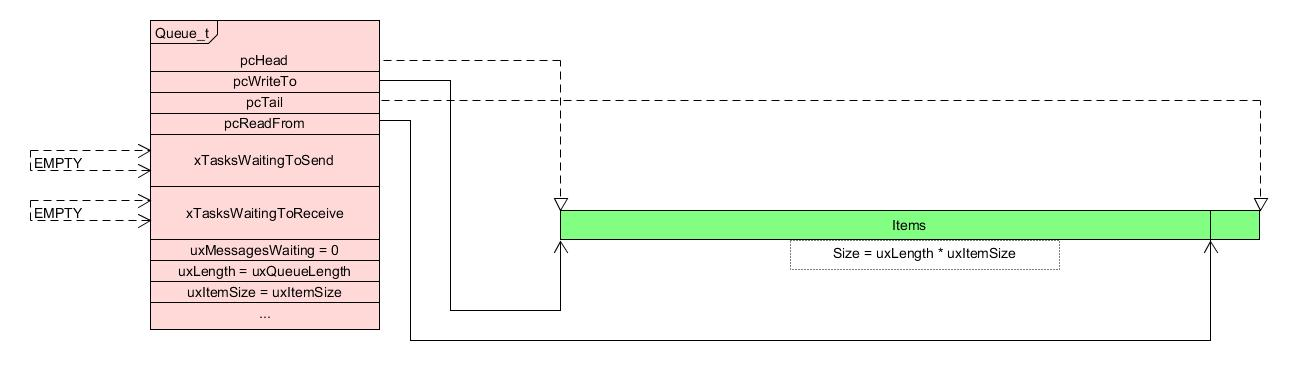
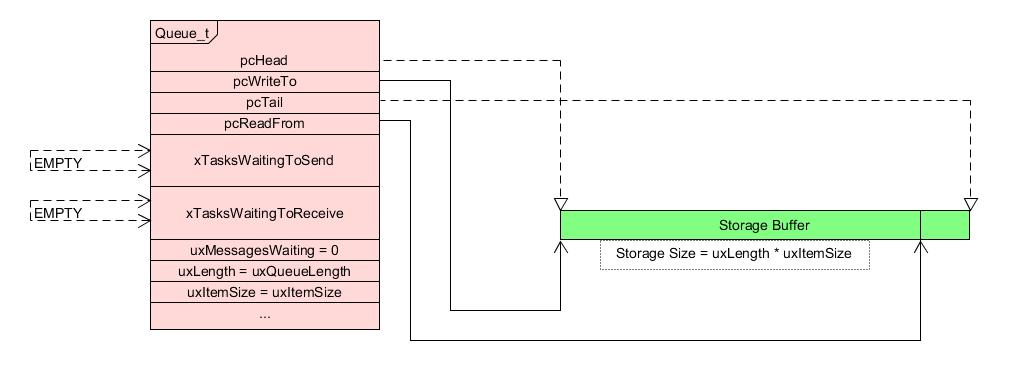
Update itc_queue.md

diff --git a/FreeRTOS/Markdown/itc_queue.md b/FreeRTOS/Markdown/itc_queue.md
@@ -7,7 +7,7 @@
 | xQueueCreate | xQueueGenericCreate |
 | xQueueCreateStatic | xQueueGenericCreateStatic |
 
-`xQueueGenericCreate` 与 `xQueueGenericCreateStatic` 的区别在于内存是否为动态分配，因此以 `xQueueGenericCreate` 为例:
+`xQueueGenericCreate` 与 `xQueueGenericCreateStatic` 的区别在于所需的内存是否为动态分配，因此我们以 `xQueueGenericCreate` 为例进行分析:
 
 ### xQueueGenericCreate
 
@@ -20,59 +20,104 @@ QueueHandle_t xQueueGenericCreate( const UBaseType_t uxQueueLength,
  - **uxQueueLength**： 队列可以包含的最大项数。
  - **uxItemSize**： 队列中每一项所需的字节数。
  - **ucQueueType**： 队列类型，对于 `Queue` 该参数为 **queueQUEUE_TYPE_BASE**。
+ - **Return Value**： 返回新创建的队列的句柄。
+
+使用 `xQueueGenericCreate` 创建队列的流程如下图：
 
 ![xQueueCreate Sequence][1]
 
-![xQueueCreate Structure][2]
-
- 1. 需要注意 xQueueGenericReset 中，对阻塞任务的处理策略。
+ 1. 需要注意 `xQueueGenericReset` 中，对阻塞任务的处理策略。
 
     - 如果有任务处于等待读取的状态，则该阻塞任务将继续阻塞。
-    - 如果有任务处于等待写入的状态，则取消**一个任务**的阻塞状态。
+    - 如果有任务处于等待写入的状态，则取消 **优先级最高的任务** 的阻塞状态。
 
     > If there are tasks blocked waiting to read from the queue, then the tasks will remain blocked as after this function exits the queue will still be empty.  If there are tasks blocked waiting to write to the queue, then one should be unblocked as after this function exits it will be possible to write to it.
 
-## 发送消息
+使用 `xQueueGenericCreate` 创建队列的数据结构如下图：
 
-| API | 入队方式 | 实际调用函数 |
+![xQueueCreate Structure][2]
+
+## 入队
+
+队列的入队方式如下表：
+
+ - 按照运行场景可分为两个版本：
+    - 可以在中断服务例程中使用
+    - 不可在中断服务例程中使用
+
+ - 按照插入位置可分为三种方式：
+    - 从队列首部入队
+    - 从队列尾部入队
+    - 从队列尾部覆盖式入队
+
+| API | 实际调用函数 | 入队方式 | 备注 |
+| :--- | :--- | :--- | :--- |
+| xQueueSendToFront        | xQueueGenericSend | 从队列首部入队 |  |
+| xQueueSendToBack         | xQueueGenericSend | 从队列尾部入队 |  |
+| xQueueOverwrite          | xQueueGenericSend | 从队列尾部覆盖式入队 | 只用于长度为1的队列 |
+| xQueueSend               | xQueueGenericSend | 从队列尾部入队 | 不推荐使用，该接口存在是为了保持版本的向后兼容性 |
+| xQueueSendToFrontFromISR | xQueueGenericSendFromISR | 从队列首部入队 |  |
+| xQueueSendToBackFromISR  | xQueueGenericSendFromISR | 从队列尾部入队 |  |
+| xQueueOverwriteFromISR   | xQueueGenericSendFromISR | 从队列尾部覆盖式入队 | 只用于长度为1的队列 |
+| xQueueSendFromISR        | xQueueGenericSendFromISR | 从队列尾部入队 | 不推荐使用，该接口存在是为了保持版本的向后兼容性 |
+
+### xQueueGenericSend
+
+``` C
+BaseType_t xQueueGenericSend( QueueHandle_t xQueue,
+        const void * const pvItemToQueue,
+        TickType_t xTicksToWait,
+        const BaseType_t xCopyPosition )
+```
+
+ - **xQueue**： 队列的句柄。
+ - **pvItemToQueue**： 需要入队的Item。
+ - **xTicksToWait**： 入队任务被阻塞的最大时间，如果设置为0则不被阻塞。
+ - **xCopyPosition**：设置入队方式，可以为 **queueSEND_TO_BACK**，**queueSEND_TO_FRONT**，**queueOVERWRITE**。
+ - **Return Value**： 入队成功或队列满。
+
+使用 `xQueueGenericSend` 入队的流程如下图：
+
+![xQueueGenericSend Sequence][3]
+
+ 1. 需要注意
+
+使用 `xQueueGenericSend` 入队后队列的数据结构如下图：
+
+![xQueueGenericSend Structure][4]
+
+### xQueueGenericSendFromISR
+
+``` C
+BaseType_t xQueueGenericSendFromISR( QueueHandle_t xQueue,
+        const void * const pvItemToQueue,
+        BaseType_t * const pxHigherPriorityTaskWoken,
+        const BaseType_t xCopyPosition )
+```
+
+ - **xQueue**： 队列的句柄。
+ - **pvItemToQueue**： 需要入队的Item。
+ - **pxHigherPriorityTaskWoken**： 当该值返回 **True** 时，表明有更高优先级的任务被解除阻塞，需要在退出中断前发起一次上下文切换。
+ - **xCopyPosition**：设置入队方式，可以为 **queueSEND_TO_BACK**，**queueSEND_TO_FRONT**，**queueOVERWRITE**。
+ - **Return Value**： 入队成功或队列满。
+
+使用 `xQueueGenericSendFromISR` 入队的流程如下图：
+
+![xQueueGenericSendFromISR Sequence][5]
+
+ 1. 需要注意
+
+使用 `xQueueGenericSendFromISR` 入队后队列的数据结构如下图：
+
+![xQueueGenericSendFromISR Structure][6]
+
+## 出队
+
+| API | 实际调用函数 | 入队方式 | 
 | :--- | :--- | :--- |
 |  |  |  |
 |  |  |  |
 |  |  |  |
-
-
-
-xQueueSendToFront
-xQueueSendToBack
-xQueueSend
-xQueueOverwrite
-xQueuePeek
-xQueuePeekFromISR
-xQueueReceive
-vQueueDelete
-xQueueSendToFrontFromISR
-xQueueSendToBackFromISR
-xQueueOverwriteFromISR
-xQueueSendFromISR
-xQueueGiveFromISR
-xQueueReceiveFromISR
-xQueueReset
-
-xQueueGenericCreate
-xQueueGenericSend
-xQueueGenericSendFromISR
-xQueueGenericCreateStatic
-xQueueGenericReset -- No Public
-
-
-
-
-
-
-
-
-
-## 接收消息
 
 ## 删除队列
 
@@ -82,5 +127,20 @@ xQueueGenericReset -- No Public
 	List_t xTasksWaitingToSend;
 	List_t xTasksWaitingToReceive;
 
+
+
+xQueuePeek
+xQueuePeekFromISR
+xQueueReceive
+vQueueDelete
+xQueueGiveFromISR
+xQueueReceiveFromISR
+xQueueReset
+xQueueGenericSend
+xQueueGenericSendFromISR
+xQueueGenericCreateStatic
+xQueueGenericReset -- No Public
+
 [1]: ./images/xQueueCreate.jpg
 [2]: ./images/xQueueCreate_structure.jpg
+
